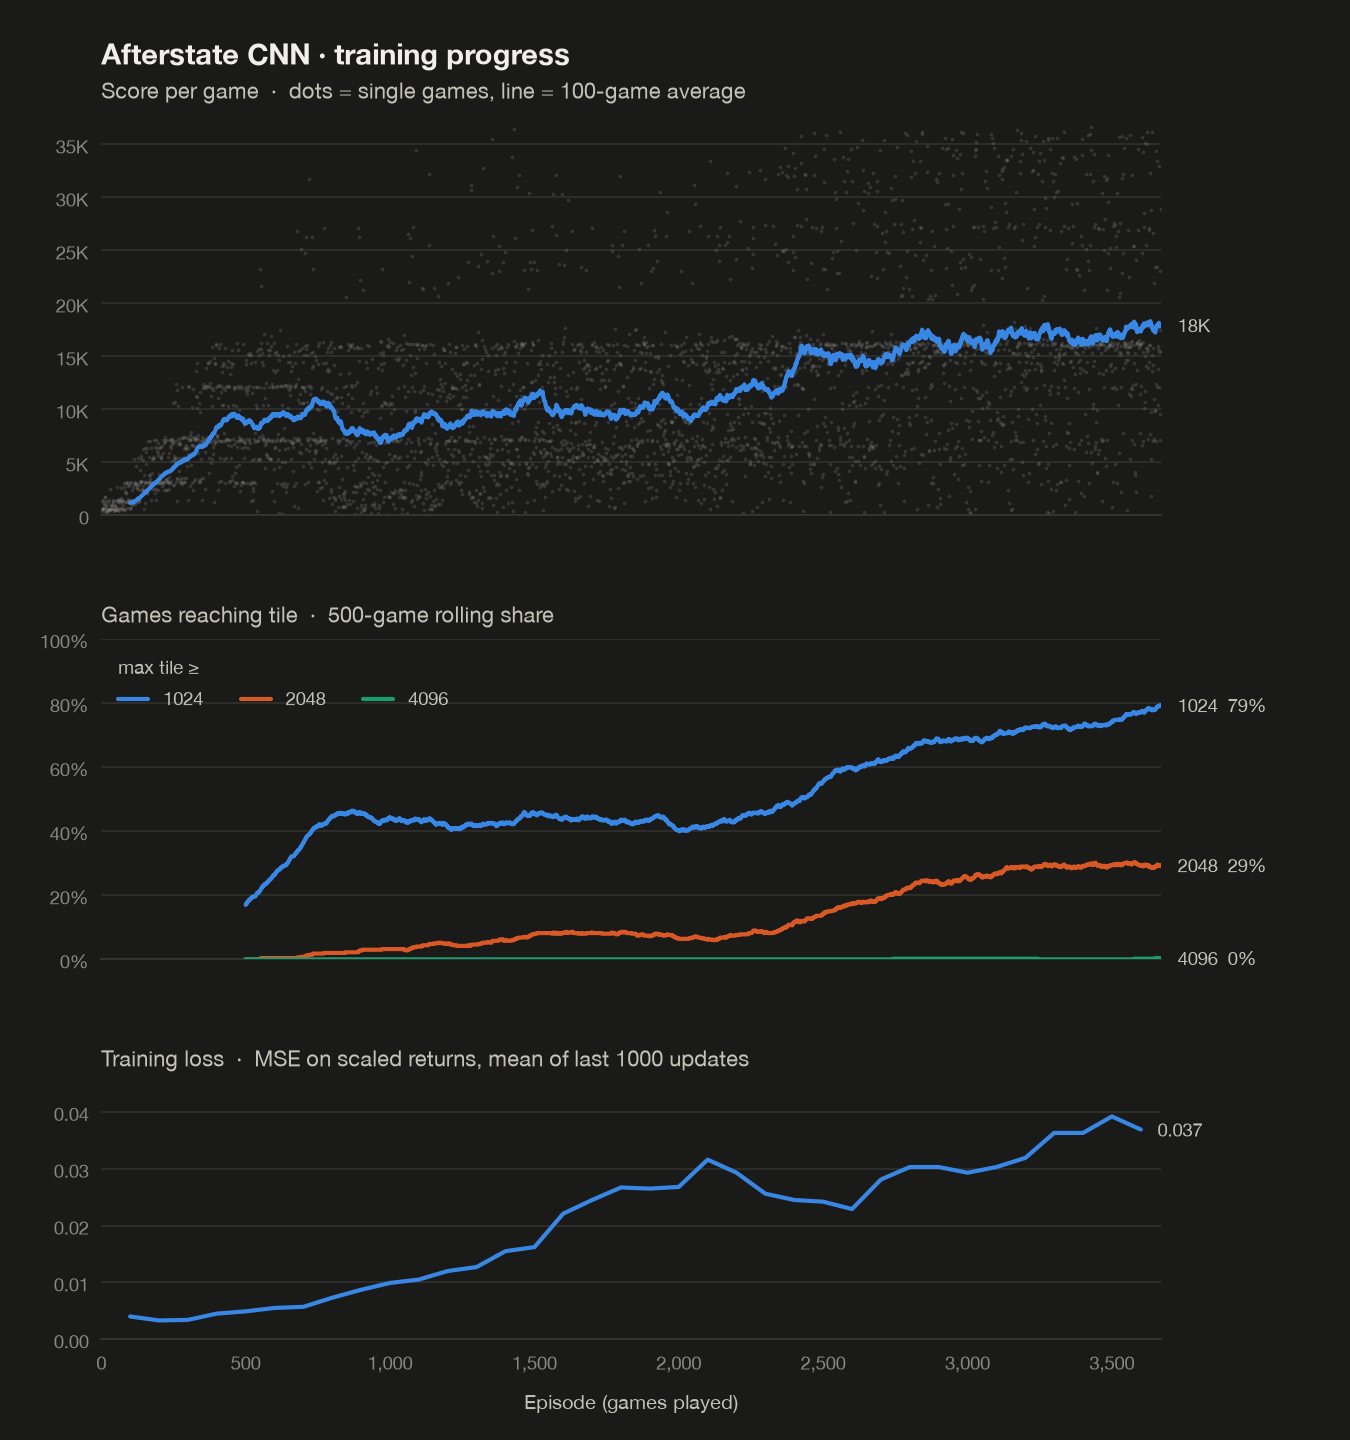
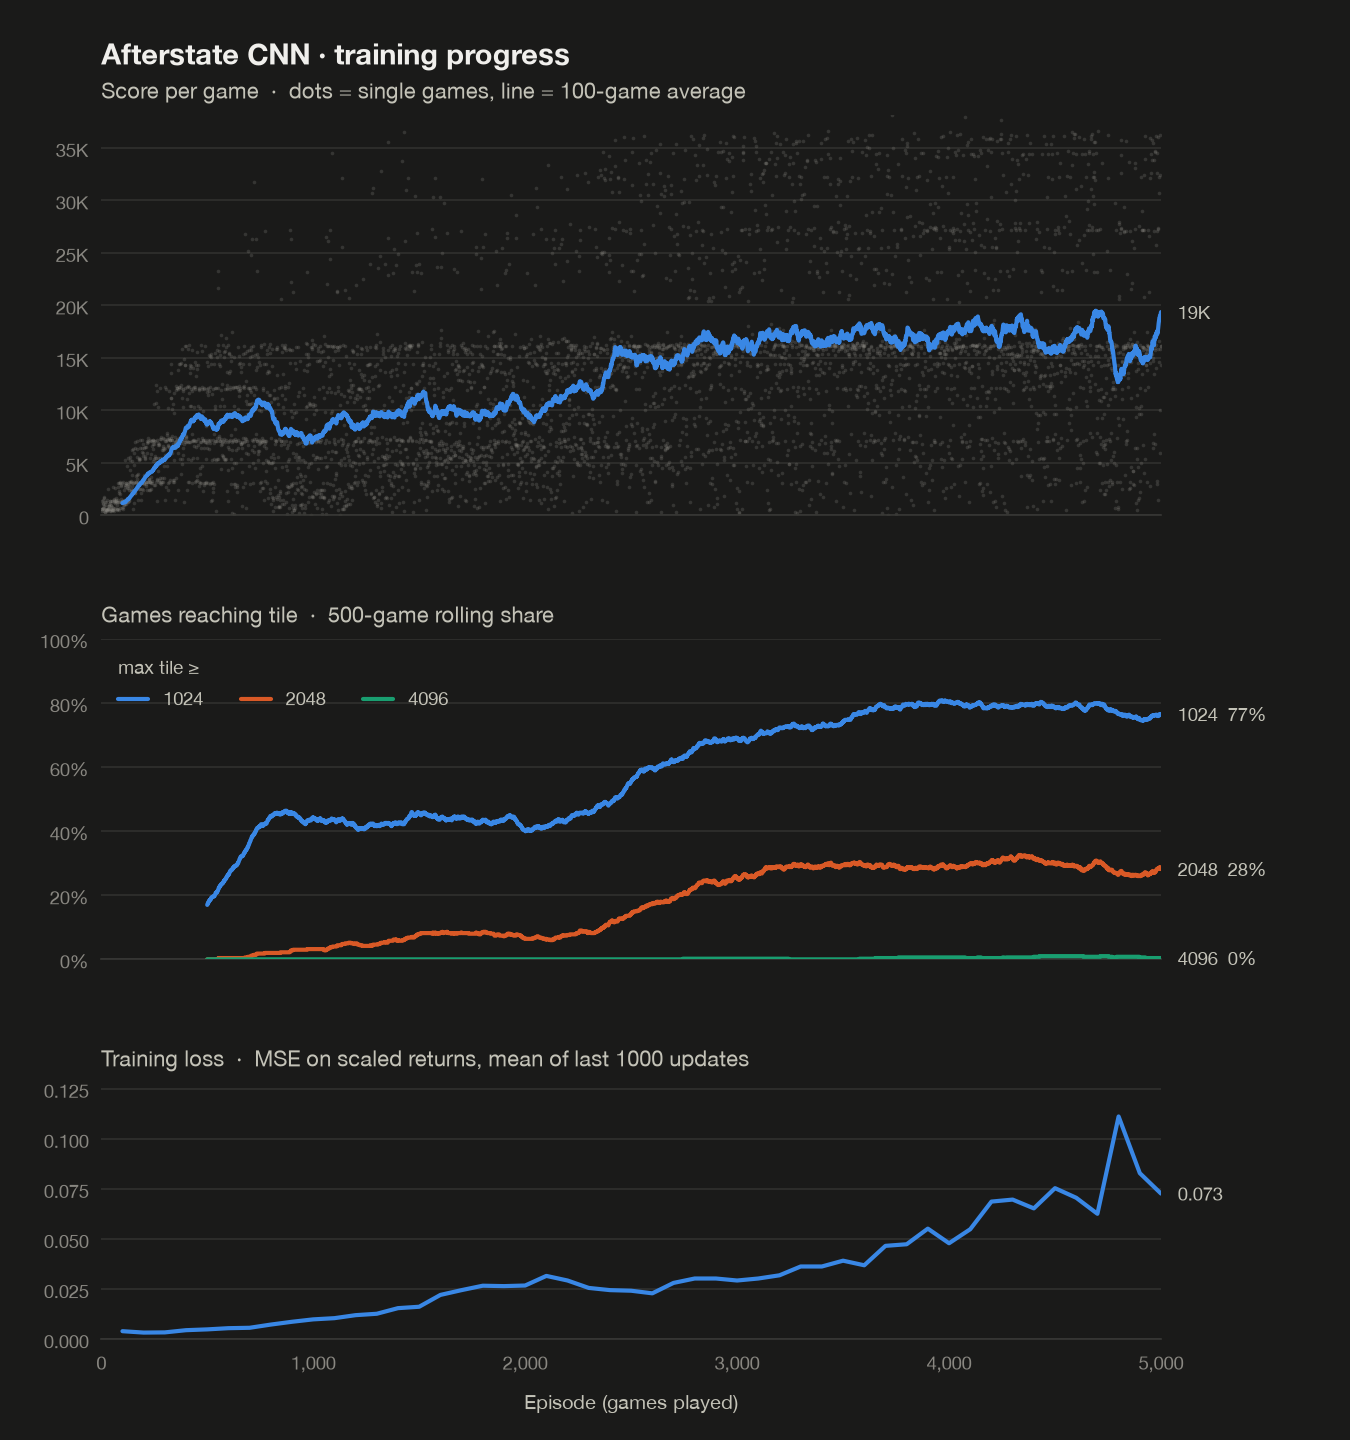
Update README results and training charts at 5000 episodes

diff --git a/README.md b/README.md
@@ -39,27 +39,28 @@ Training details:
 
 Greedy play (always the best move, no random moves). "Reached" means the game's largest tile was at least that tile.
 
-| Reached tile | Old DQN<br/>20K episodes | **Afterstate CNN**<br/>3K episodes |
-|---|---|---|
-| 512 | 3.5% | **90%** |
-| 1024 | 0% | **70%** |
-| 2048 | 0% | **18.5%** |
-| 4096 | 0% | 0% |
-| Average score | 2.5K | **14.5K** |
-| Games tested | 200 | 200 |
+| Reached tile | Old DQN<br/>20K episodes | Afterstate CNN<br/>3K episodes | **Afterstate CNN**<br/>**5K episodes** |
+|---|---|---|---|
+| 512 | 3.5% | 90% | **92.5%** |
+| 1024 | 0% | 70% | **73.5%** |
+| 2048 | 0% | 18.5% | **29.5%** |
+| 4096 | 0% | 0% | 0% |
+| Average score | 2.5K | 14.5K | **16.9K** |
+| Best score | – | 36.2K | **36.7K** |
+| Games tested | 200 | 200 | 200 |
 
-With less than a sixth of the old DQN's training episodes, the afterstate agent reaches 2048 in almost one game in five. 4096 needs more training.
+With a quarter of the old DQN's training episodes, the afterstate agent reaches 2048 in about 30% of games. 4096 has appeared 11 times during training (first at episode 2,744, best score 57K), but not yet in a 200-game test.
 
 ### Training progress
 
 <picture>
   <source media="(prefers-color-scheme: dark)" srcset="docs/images/training_progress_dark.png">
-  <img src="docs/images/training_progress_light.png" alt="Three charts over training episodes: average score rising past 16K, share of games reaching 1024 rising to about 70% and 2048 rising to about 28%, and training loss rising from 0.004 to 0.03">
+  <img src="docs/images/training_progress_light.png" alt="Three charts over 5,000 training episodes: average score rising to about 17–19K, share of games reaching 1024 rising to about 80% and 2048 to about 30%, and training loss rising from 0.004 to about 0.07">
 </picture>
 
-- **Score.** Each dot is one game and the line is the 100-game average. Progress plateaus around episodes 800–2,300 and then climbs again.
-- **Tile rates.** These show the share of the last 500 games that reached 1024, 2048 and 4096.
-- **Loss going up is expected here.** The network predicts the points still to come, and those values grow as the agent survives longer (a 2048 game is worth roughly 4× a 512 game). Bigger targets mean bigger squared errors, even when the relative error is flat.
+- **Score.** Each dot is one game and the line is the 100-game average. Progress plateaus around episodes 800–2,300, climbs to about 17K by episode 3,500, and then levels off.
+- **Tile rates.** These show the share of the last 500 games that reached 1024, 2048 and 4096. Since episode 3,500 they hold at about 80% for 1024 and 30% for 2048.
+- **Loss going up is expected here.** The network predicts the points still to come, and those values grow as the agent survives longer (a 2048 game is worth roughly 4× a 512 game). Bigger targets mean bigger squared errors, even when the relative error is flat. The spike near episode 4,800 lines up with a short score dip, and both recovered on their own.
 
 Regenerate the charts with `python -m CNN.plot_training` (needs `matplotlib`).
 
